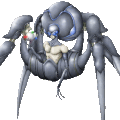
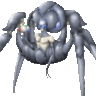
Ajouté l'icône de pokemonis 1

diff --git a/index.html b/index.html
@@ -202,7 +202,7 @@ img.icon {
 			<a href="/ebooks/sauveur.pdf">Version PDF</a><br />
 		</div>
 		<h2>Le Destin des Primordiaux</h2>
-		<img class="icon" src="/res/primordiaux-icon.png" alt="Icone pou le Destin des primordiaux" />
+		<img class="icon" src="/res/primordiaux-icon.png" alt="Icone pour le Destin des primordiaux" />
 		<div class="paragraph">
 			<a href="/ebooks/primordiaux.epub">Version EPUB</a><br />
 			<a href="/ebooks/primordiaux.azw3">Version AZW3</a><br />
@@ -211,6 +211,7 @@ img.icon {
 	</div>
 	<div class="group">
 		<h2>Pokémonis T.1 : La Pokéball Perdue</h2>
+		<img class="icon" src="/res/pokemonis1-icon.png" alt="Icone pour Pokemonis T1" />
 		<div class="paragraph">
 			<a href="/ebooks/pokemonis1.epub">Version EPUB</a><br />
 			<a href="/ebooks/pokemonis1.azw3">Version AZW3</a><br />
